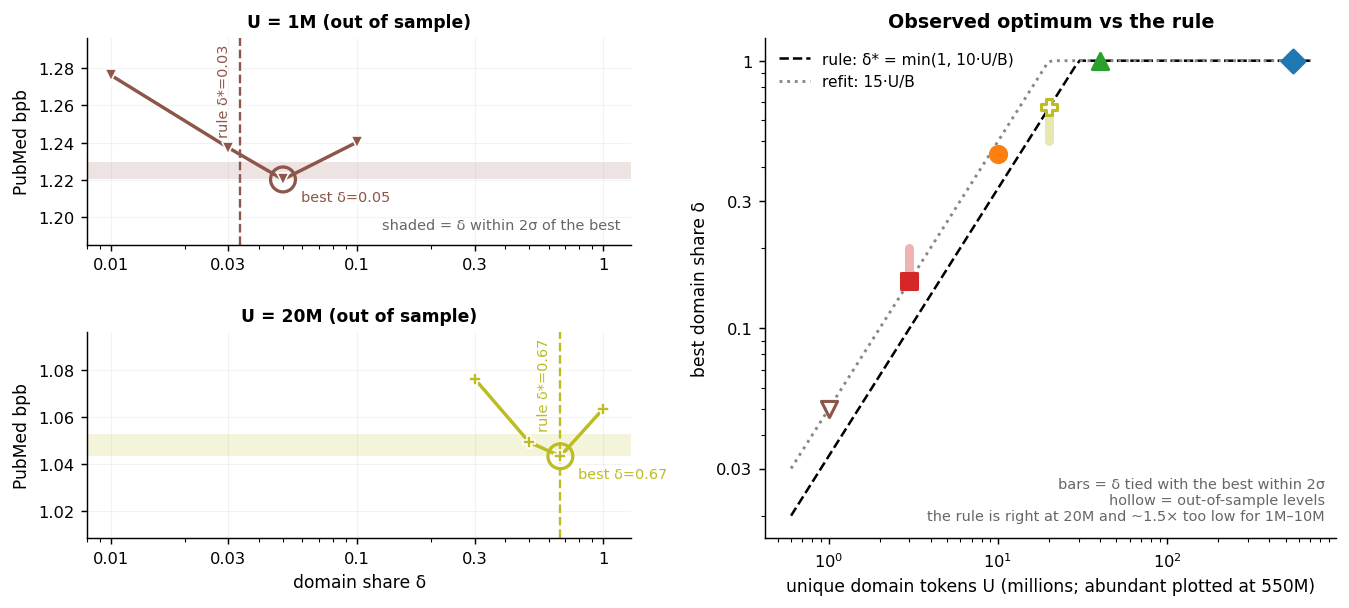
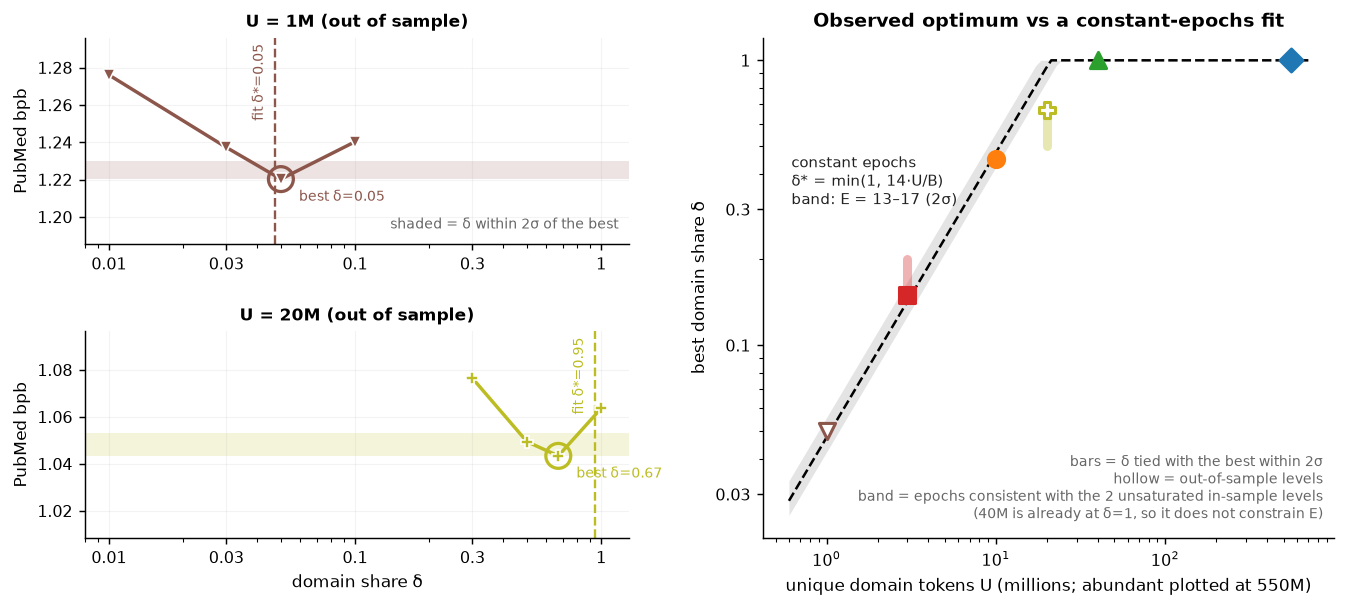
Changed figure

diff --git a/code/analyze.py b/code/analyze.py
@@ -20,7 +20,7 @@ import numpy as np
 
 M = 1_000_000
 U_ORDER = [3 * M, 10 * M, 40 * M, 0]  # the main grid; 0 = all available domain data (abundant)
-EXT_U = [1 * M, 20 * M]              # extra scarcity levels used only as an out-of-sample test of the delta* rule
+EXT_U = [1 * M, 20 * M]              # extra scarcity levels used only as an out-of-sample test of the constant-epochs fit
 COLORS = {1 * M: "#8c564b", 3 * M: "#d62728", 10 * M: "#ff7f0e", 20 * M: "#bcbd22", 40 * M: "#2ca02c", 0: "#1f77b4"}
 MARKERS = {1 * M: "v", 3 * M: "s", 10 * M: "o", 20 * M: "P", 40 * M: "^", 0: "D"}
 GREY = "#555555"
@@ -295,9 +295,53 @@ def fig_repetition(grid, out, sd=None):
     plt.close(fig)
 
 
-def fig_rule(grid, sd, out, B=300 * M, e_star=10, u_abundant=550 * M):
-    """Left: the out-of-sample scarcity levels with the rule's predicted delta. Right: observed optimum vs the rule."""
+def fit_epochs(grid, B=300 * M, holdout=(), sd=None):
+    """Constant-epochs fit through the observed optima: delta* = E*U/B, fitted in log space so every level counts
+    equally in relative terms. Levels whose optimum is delta=1 are saturated (censored) and carry no information
+    about E, so they are left out, as are the `holdout` levels that the left panels test.
+
+    With `sd` the per-level 2-sigma tie band is converted into a range of epochs, and the ranges of the levels the
+    fit used are intersected: that intersection is the band of E consistent with all of them. Returns
+    (E, [(U, best delta), ...], (E_lo, E_hi)) where the list is the points the fit used."""
+    pts = []
+    for U in sorted({u for (u, d) in grid if u > 0 and u not in holdout}):
+        means = {d: st.mean(r["dom"] for r in rs) for (u, d), rs in grid.items() if u == U}
+        if len(means) < 3:
+            continue
+        best = min(means, key=means.get)
+        if best < 1.0:
+            pts.append((U, best))
+    if not pts:
+        return np.nan, pts, (np.nan, np.nan)
+    e_fit = float(np.exp(np.mean([np.log(d * B / U) for U, d in pts])))
+    if sd is None:
+        return e_fit, pts, (np.nan, np.nan)
     thr = 2 * sd * 2 ** 0.5
+    lo, hi = -np.inf, np.inf
+    for U, _ in pts:
+        series = sorted((d, st.mean(r["dom"] for r in rs)) for (u, d), rs in grid.items() if u == U)
+        xs = [p[0] for p in series]
+        ys = [p[1] for p in series]
+        level = min(ys) + thr
+        cross = []
+        for i in range(len(xs) - 1):
+            y0, y1 = ys[i], ys[i + 1]
+            if (y0 - level) * (y1 - level) <= 0 and y0 != y1:
+                cross.append(xs[i] + (level - y0) / (y1 - y0) * (xs[i + 1] - xs[i]))
+        if not cross:
+            continue
+        lo = max(lo, min(cross) * B / U)
+        hi = min(hi, max(cross) * B / U)
+    return e_fit, pts, (lo, hi)
+
+
+def fig_rule(grid, sd, out, B=300 * M, u_abundant=550 * M):
+    """Left: the out-of-sample scarcity levels with the fitted delta. Right: observed optimum vs a constant-epochs
+    fit, drawn as a band of epochs consistent with the in-sample levels. No rule is proposed, so the figure shows
+    one empirical fit and its uncertainty instead of competing lines."""
+    thr = 2 * sd * 2 ** 0.5
+    e_fit, fit_pts, (e_lo, e_hi) = fit_epochs(grid, B, holdout=EXT_U, sd=sd)
+    band = np.isfinite(e_lo) and np.isfinite(e_hi) and e_hi > e_lo
     fig = plt.figure(figsize=(12.4, 5.0))
     gs = fig.add_gridspec(2, 2, width_ratios=[1.0, 1.05], hspace=0.42, wspace=0.24)
     left = [fig.add_subplot(gs[0, 0]), fig.add_subplot(gs[1, 0])]
@@ -314,9 +358,9 @@ def fig_rule(grid, sd, out, B=300 * M, e_star=10, u_abundant=550 * M):
         a.plot(xs, ys, marker=MARKERS[U], color=COLORS[U], lw=1.9, ms=7, mec="white", mew=0.9, zorder=3)
         i = int(np.argmin(ys))
         a.scatter([xs[i]], [ys[i]], s=190, facecolors="none", edgecolors=COLORS[U], lw=1.8, zorder=4)
-        pred = min(1.0, e_star * U / B)
+        pred = min(1.0, e_fit * U / B)
         a.axvline(pred, color=COLORS[U], ls="--", lw=1.3, zorder=1)
-        a.annotate(f"rule δ*={pred:.2f}", (pred, 0.97), xycoords=("data", "axes fraction"), textcoords="offset points",
+        a.annotate(f"fit δ*={pred:.2f}", (pred, 0.97), xycoords=("data", "axes fraction"), textcoords="offset points",
                    xytext=(-5, 0), fontsize=8, color=COLORS[U], rotation=90, va="top", ha="right")
         a.annotate(f"best δ={xs[i]:g}", (xs[i], ys[i]), textcoords="offset points", xytext=(10, -12), fontsize=8,
                    color=COLORS[U])
@@ -334,8 +378,14 @@ def fig_rule(grid, sd, out, B=300 * M, e_star=10, u_abundant=550 * M):
 
     b = fig.add_subplot(gs[:, 1])
     Ug = np.logspace(np.log10(0.6e6), np.log10(700e6), 100)
-    b.plot(Ug / M, np.minimum(1.0, e_star * Ug / B), "k--", lw=1.4, label=f"rule: δ* = min(1, {e_star}·U/B)")
-    b.plot(Ug / M, np.minimum(1.0, 15 * Ug / B), color="#888888", ls=":", lw=1.6, label="refit: 15·U/B")
+    if band:
+        b.fill_between(Ug / M, np.minimum(1.0, e_lo * Ug / B), np.minimum(1.0, e_hi * Ug / B),
+                       color="#333333", alpha=0.13, lw=0, zorder=0)
+    b.plot(Ug / M, np.minimum(1.0, e_fit * Ug / B), "k--", lw=1.4, zorder=1)
+    label = f"constant epochs\nδ* = min(1, {e_fit:.0f}·U/B)"
+    if band:
+        label += f"\nband: E = {e_lo:.0f}–{e_hi:.0f} (2σ)"
+    b.annotate(label, (0.62, 0.30), fontsize=8.5, color="#222222", ha="left", va="bottom")
     for U in sorted({u for (u, d) in grid}, key=lambda u: (u == 0, u)):
         means = {d: st.mean(r["dom"] for r in rs) for (u, d), rs in grid.items() if u == U}
         if len(means) < 3:
@@ -352,10 +402,10 @@ def fig_rule(grid, sd, out, B=300 * M, e_star=10, u_abundant=550 * M):
     b.set_yticklabels(["0.03", "0.1", "0.3", "1"])
     b.set_xlabel("unique domain tokens U (millions; abundant plotted at 550M)")
     b.set_ylabel("best domain share δ")
-    b.set_title("Observed optimum vs the rule")
-    b.legend(frameon=False, loc="upper left")
+    b.set_title("Observed optimum vs a constant-epochs fit")
     b.text(0.98, 0.03, "bars = δ tied with the best within 2σ\nhollow = out-of-sample levels\n"
-                       "the rule is right at 20M and ~1.5× too low for 1M–10M",
+                       f"band = epochs consistent with the {len(fit_pts)} unsaturated in-sample levels\n"
+                       "(40M is already at δ=1, so it does not constrain E)",
            transform=b.transAxes, ha="right", va="bottom", fontsize=8, color="#666666")
 
     fig.savefig(out, bbox_inches="tight")
@@ -473,6 +523,11 @@ def main():
     fig_heatmap({k: v for k, v in grid.items() if k[1] > 0}, base, os.path.join(a.out, "fig4_heatmap.png"))
     n_fig = 4
     if any(u in EXT_U for (u, d) in grid):
+        e_fit, fit_pts, (e_lo, e_hi) = fit_epochs({k: v for k, v in grid.items() if k[1] > 0}, holdout=EXT_U, sd=sd)
+        print("\nconstant-epochs fit (delta* = E*U/B, out-of-sample levels held out):")
+        print(f"  E = {e_fit:.1f} epochs from " + ", ".join(f"U={lab(U)} (best delta={d:g})" for U, d in fit_pts))
+        if np.isfinite(e_lo) and np.isfinite(e_hi):
+            print(f"  epochs consistent with all of them at 2 sigma: E = {e_lo:.1f}-{e_hi:.1f}")
         fig_rule({k: v for k, v in grid.items() if k[1] > 0}, sd, os.path.join(a.out, "fig5_rule.png"))
         n_fig = 5
 

diff --git a/readme(1).md b/readme(1).md
@@ -73,7 +73,7 @@ Pause the queue while scoring: sharing the GPU slows training runs and can trip 
 ## What the report figures and tables come from
 | report item | produced by | input |
 |---|---|---|
-| Fig. 1 main result, Fig. 2 trade-off, Fig. 3 repetition, Fig. 4 heatmap, Fig. 5 rule check, Fig. 6 horizon | `code/analyze.py` | `results/results.csv` |
+| Fig. 1 main result, Fig. 2 trade-off, Fig. 3 repetition, Fig. 4 heatmap, Fig. 5 constant-epochs fit check, Fig. 6 horizon | `code/analyze.py` | `results/results.csv` |
 | Fig. 7 similarity, Fig. 8 score distribution | `code/analyze_similarity.py` | `runs/`, `results/pools_summary.json` (`scores.npz` for Fig. 8 only) |
 | noise estimate, gain table | printed by `code/analyze.py` | `results/results.csv` |
 TODO: adjust figure numbers to match the final report.
